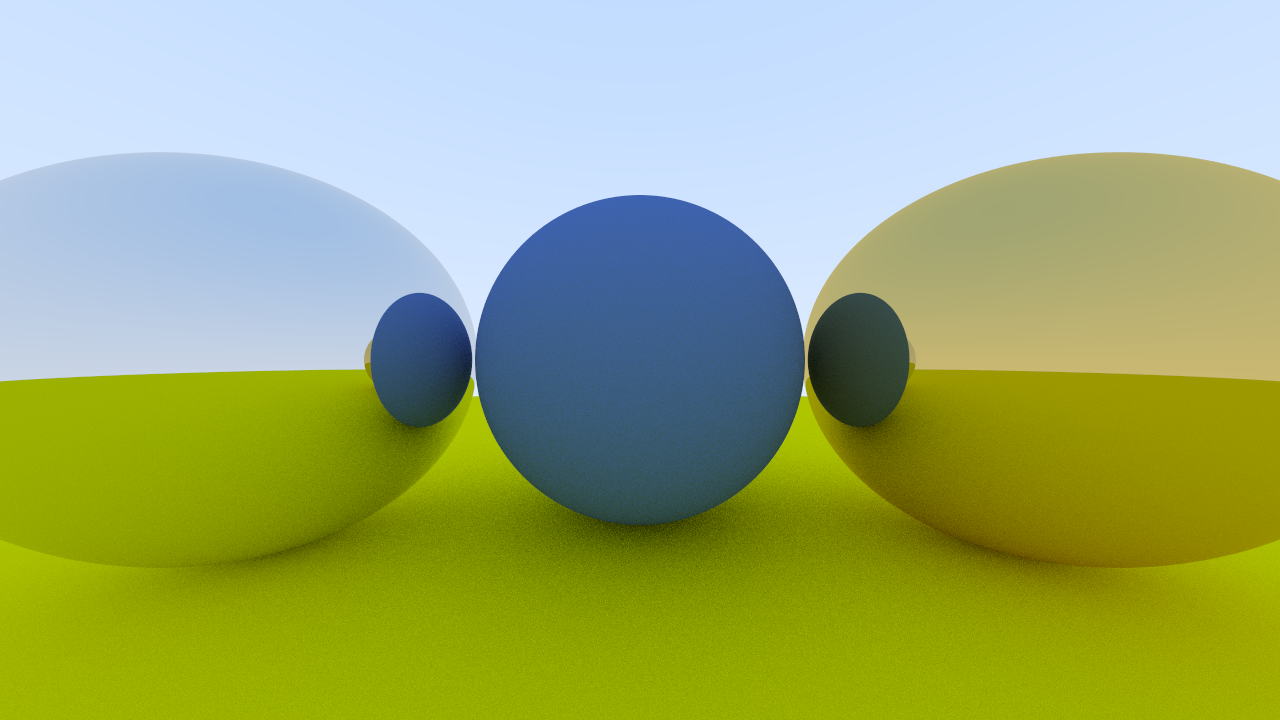
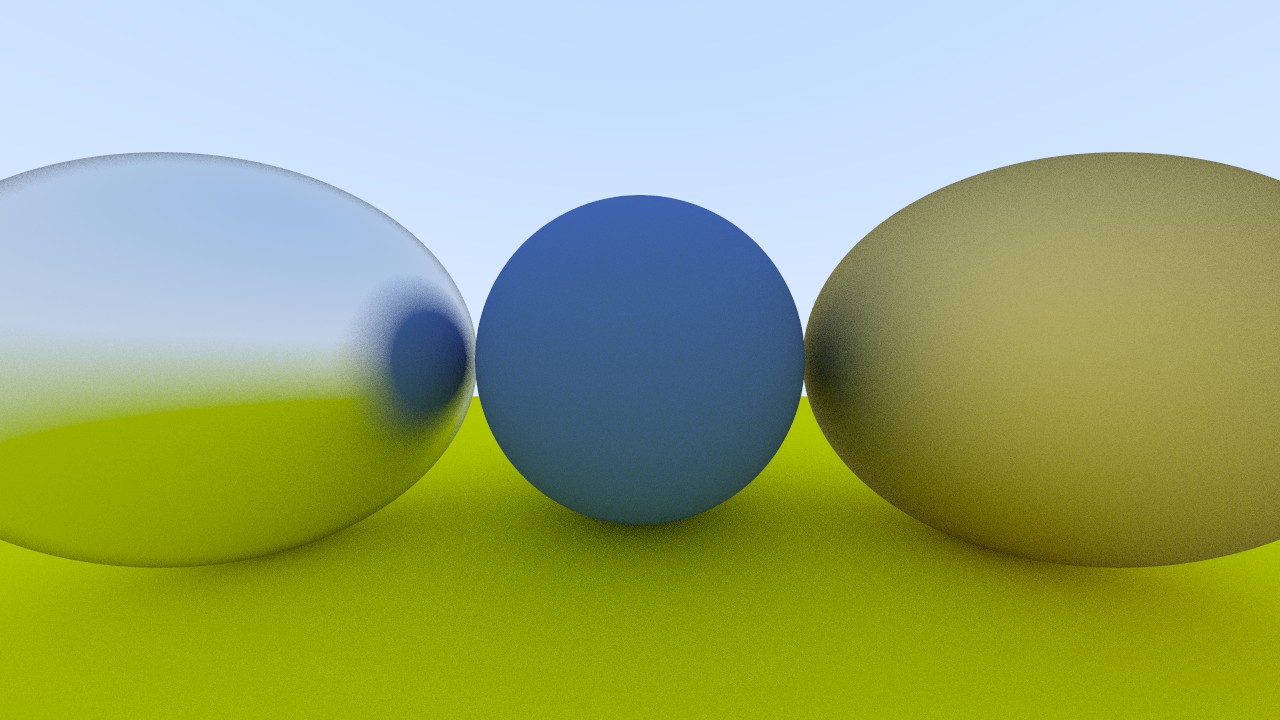
multithread

diff --git a/src/RayTracer.cpp b/src/RayTracer.cpp
@@ -16,6 +16,9 @@
 #include <iostream>
 #include <algorithm>
 #include <limits>
+#include <execution>
+#include <ranges>
+#include <fstream>
 
 namespace rt
 {
@@ -44,6 +47,8 @@ namespace rt
                 {
                     return attenuation * rayColor(scattered, depth - 1, world);
                 }
+
+                return glm::vec3(0.0f);
             }
 
             glm::vec3 unitDirection = glm::normalize(ray.direction());
@@ -65,8 +70,8 @@ namespace rt
 
         auto materialGround = std::make_shared<Lambertian>(glm::vec3(0.8f, 0.8f, 0.0f));
         auto materialCenter = std::make_shared<Lambertian>(glm::vec3(0.1, 0.2, 0.5));
-        auto materialLeft = std::make_shared<Metal>(glm::vec3(0.8f, 0.8f, 0.8f));
-        auto materialRight = std::make_shared<Metal>(glm::vec3(0.8f, 0.6f, 0.2f));
+        auto materialLeft = std::make_shared<Metal>(glm::vec3(0.8f, 0.8f, 0.8f), 0.3f);
+        auto materialRight = std::make_shared<Metal>(glm::vec3(0.8f, 0.6f, 0.2f), 1.0f);
 
         world.Add(std::make_shared<Sphere>(glm::vec3(0.0f, -100.5f, -1.0f), 100.0f, materialGround));
         world.Add(std::make_shared<Sphere>(glm::vec3(0.0f, 0.0f, -1.2f), 0.5f, materialCenter));
@@ -96,6 +101,34 @@ namespace rt
         float pixelSamplesScale = 1.0f / samplesPerPixel;
 
         Timer renderTimer;
+
+#define MULTITHREAD_RENDER 1
+
+#if MULTITHREAD_RENDER
+        auto rows = std::views::iota(0, height);
+
+        // clang-format off
+        std::for_each(std::execution::par, rows.begin(), rows.end(), [&](int y)
+        {
+            for (int x = 0; x < width; ++x)
+            {
+                glm::vec3 pixelColor{0.0f};
+                int pixelIndex = (y * width + x) * channels;
+
+                for (int sample = 0; sample < samplesPerPixel; ++sample)
+                {
+                    glm::vec2 offset = getRandomOffset();
+                    Ray r = camera.GetRay(x, y, offset);
+
+                    pixelColor += rayColor(r, maxDepth, world);
+                }
+                pixelColor *= pixelSamplesScale;
+                writePixel(pixels, pixelIndex, pixelColor);
+            }
+        });
+        // clang-format on
+
+#else
         for (int y = 0; y < height; ++y)
         {
             std::cout << "\rScanlines remaining: " << height - y << ' ' << std::flush;
@@ -112,11 +145,30 @@ namespace rt
 
                     pixelColor += rayColor(r, maxDepth, world);
                 }
-                pixelColor *= pixelSamplesScale; // pixelSamplesScale = 1.0f / samplesPerPixel
+                pixelColor *= pixelSamplesScale;
                 writePixel(pixels, pixelIndex, pixelColor);
             }
         }
+#endif
         std::cout << "\rDone (" << renderTimer.ElapsedSeconds() << "s)" << "                 \n";
+
+        try
+        {
+            std::ofstream fs(output.string() + ".txt");
+
+            if (fs.is_open())
+            {
+                fs << "Image:" << std::endl;
+                fs << "\tWidth: " << width << std::endl;
+                fs << "\tHeight: " << height << std::endl;
+                fs << "Render time: " << renderTimer.ElapsedMilliseconds() << " ms" << std::endl;
+            }
+            fs.close();
+        }
+        catch (const std::filesystem::filesystem_error &e)
+        {
+            std::cerr << "Error: " << e.what() << std::endl;
+        }
 
         // Save
         int res = stbi_write_png(output.string().c_str(),

diff --git a/src/Random.hpp b/src/Random.hpp
@@ -9,31 +9,23 @@ namespace rt
 {
     inline float randomFloat(float min = 0.0f, float max = 1.0f)
     {
-        static std::random_device rd;
-        static std::mt19937 gen(rd());
+        thread_local std::random_device rd;
+        thread_local std::mt19937 gen(rd());
 
         std::uniform_real_distribution<float> dis(min, max);
         return dis(gen);
     }
 
-}
-
-namespace glm
-{
-    inline vec3 randomVec3(float min = 0.0f, float max = 1.0f)
+    inline glm::vec3 randomVec3(float min = 0.0f, float max = 1.0f)
     {
-        return vec3(rt::randomFloat(min, max), rt::randomFloat(min, max), rt::randomFloat(min, max));
+        return glm::vec3(rt::randomFloat(min, max), rt::randomFloat(min, max), rt::randomFloat(min, max));
     }
 
-}
-
-namespace rt
-{
     inline glm::vec3 randomUnitVector()
     {
         while (true)
         {
-            glm::vec3 p = glm::randomVec3(-1.0f, 1.0f);
+            glm::vec3 p = randomVec3(-1.0f, 1.0f);
             float lensq = glm::dot(p, p);
             if (1e-160f < lensq && lensq <= 1.0f)
             {

diff --git a/src/Material.cpp b/src/Material.cpp
@@ -20,17 +20,18 @@ namespace rt
         return true;
     }
 
-    Metal::Metal(const glm::vec3 &albedo)
-        : m_Albedo(albedo)
+    Metal::Metal(const glm::vec3 &albedo, float fuzz)
+        : m_Albedo(albedo), m_Fuzz(fuzz)
     {
     }
 
     bool Metal::Scatter(const Ray &rayIn, const HitDesc &desc, glm::vec3 &attenuation, Ray &scattered) const
     {
         glm::vec3 reflected = reflect(rayIn.direction(), desc.normal);
+        reflected = glm::normalize(reflected) + (m_Fuzz * randomUnitVector());
         scattered = Ray(desc.point, reflected);
         attenuation = m_Albedo;
-        return true;
+        return glm::dot(scattered.direction(), desc.normal) > 0.0f;
     }
 
 } // namespace rt

diff --git a/src/HittableList.hpp b/src/HittableList.hpp
@@ -10,9 +10,6 @@ namespace rt
     class HittableList : public Hittable
     {
     public:
-        std::vector<std::shared_ptr<Hittable>> m_Objects;
-
-    public:
         HittableList() = default;
         HittableList(std::shared_ptr<Hittable> obj);
 
@@ -21,6 +18,9 @@ namespace rt
         void Add(std::shared_ptr<Hittable> obj);
 
         void Clear();
+
+    private:
+        std::vector<std::shared_ptr<Hittable>> m_Objects;
     };
 
 } // namespace rt

diff --git a/src/Material.hpp b/src/Material.hpp
@@ -29,12 +29,13 @@ namespace rt
     class Metal : public Material
     {
     public:
-        Metal(const glm::vec3 &albedo);
+        Metal(const glm::vec3 &albedo, float fuzz);
 
         bool Scatter(const Ray &rayIn, const HitDesc &desc, glm::vec3 &attenuation, Ray &scattered) const override;
 
     private:
         glm::vec3 m_Albedo;
+        float m_Fuzz;
     };
 
 } // namespace rt

diff --git a/src/main.cpp b/src/main.cpp
@@ -1,6 +1,7 @@
 #include "RayTracer.hpp"
 
-#include <glm/glm.hpp>
+#include <string>
+#include <iostream>
 
 int main()
 {